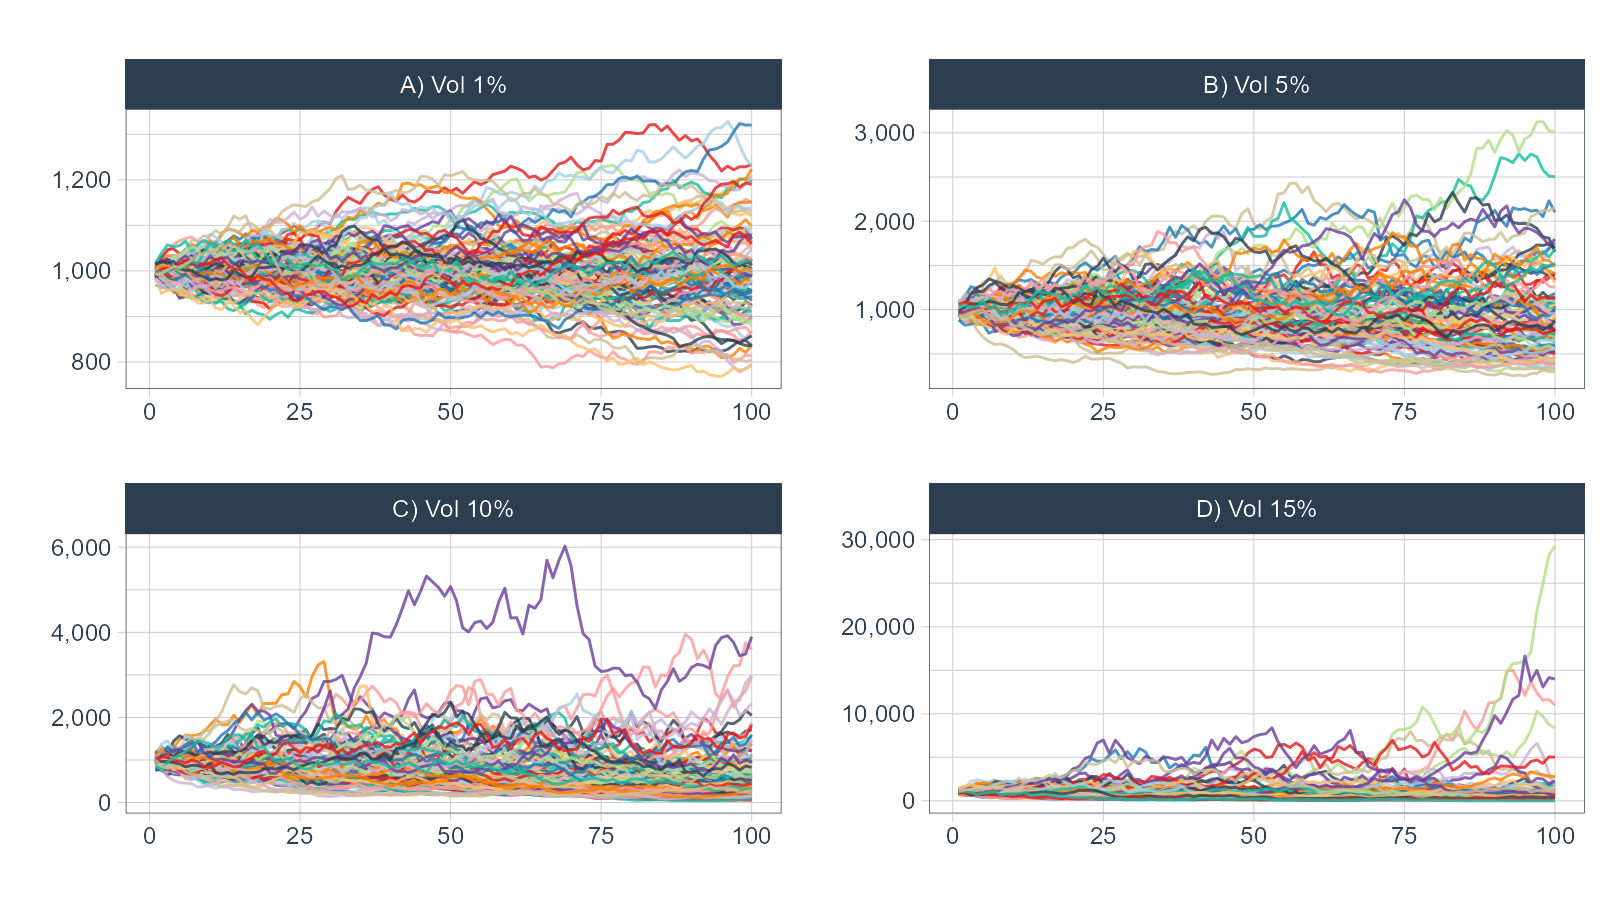
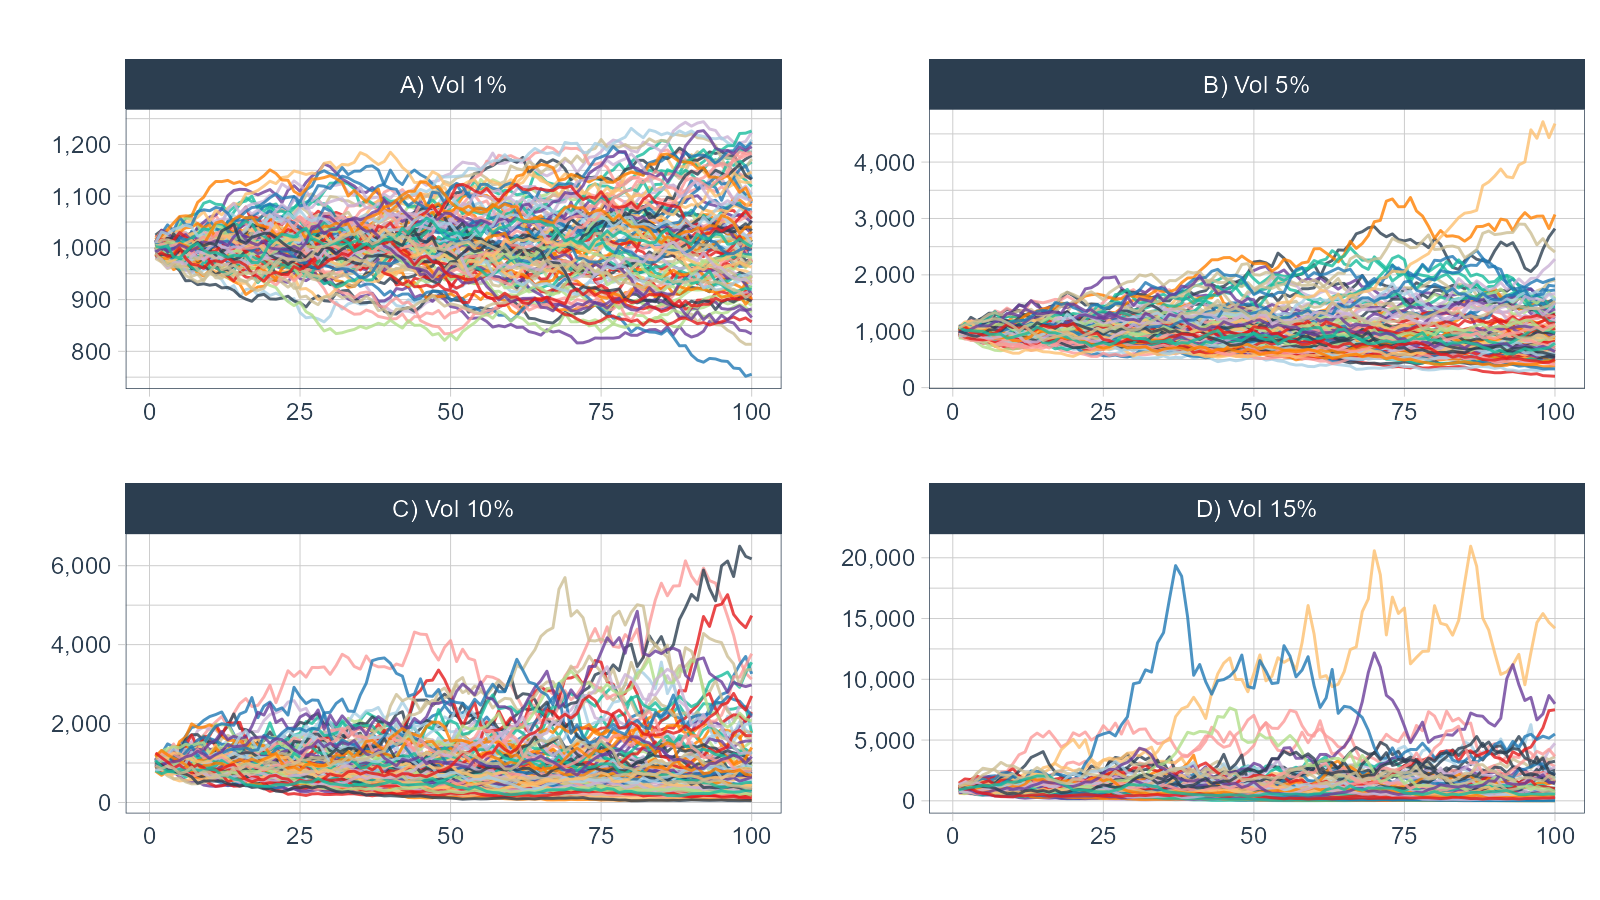
update NEWS and rebuild site

diff --git a/docs/articles/getting-started.html b/docs/articles/getting-started.html
@@ -37,7 +37,7 @@
       </button>
       <span class="navbar-brand">
         <a class="navbar-link" href="../index.html">healthyR.ts</a>
-        <span class="version label label-default" data-toggle="tooltip" data-placement="bottom" title="Released version">0.0.0.9001</span>
+        <span class="version label label-default" data-toggle="tooltip" data-placement="bottom" title="Released version">0.1.0</span>
       </span>
     </div>
 
@@ -114,19 +114,19 @@
 <span class="co">#&gt; # A tibble: 6 x 4</span>
 <span class="co">#&gt;     run     x       y cum_y</span>
 <span class="co">#&gt;   &lt;dbl&gt; &lt;dbl&gt;   &lt;dbl&gt; &lt;dbl&gt;</span>
-<span class="co">#&gt; 1     1     1  0.0442 1044.</span>
-<span class="co">#&gt; 2     1     2 -0.0121 1032.</span>
-<span class="co">#&gt; 3     1     3 -0.0101 1021.</span>
-<span class="co">#&gt; 4     1     4  0.0315 1053.</span>
-<span class="co">#&gt; 5     1     5  0.0554 1112.</span>
-<span class="co">#&gt; 6     1     6  0.134  1260.</span>
+<span class="co">#&gt; 1     1     1  0.156  1156.</span>
+<span class="co">#&gt; 2     1     2  0.0729 1240.</span>
+<span class="co">#&gt; 3     1     3  0.0563 1310.</span>
+<span class="co">#&gt; 4     1     4 -0.0812 1204.</span>
+<span class="co">#&gt; 5     1     5 -0.0208 1179.</span>
+<span class="co">#&gt; 6     1     6 -0.118  1040.</span>
 <span class="fu"><a href="https://tibble.tidyverse.org/reference/glimpse.html">glimpse</a></span><span class="op">(</span><span class="va">df</span><span class="op">)</span>
 <span class="co">#&gt; Rows: 10,000</span>
 <span class="co">#&gt; Columns: 4</span>
 <span class="co">#&gt; $ run   &lt;dbl&gt; 1, 1, 1, 1, 1, 1, 1, 1, 1, 1, 1, 1, 1, 1, 1, 1, 1, 1, 1, 1, 1...</span>
 <span class="co">#&gt; $ x     &lt;dbl&gt; 1, 2, 3, 4, 5, 6, 7, 8, 9, 10, 11, 12, 13, 14, 15, 16, 17, 18...</span>
-<span class="co">#&gt; $ y     &lt;dbl&gt; 0.0441598370, -0.0120941638, -0.0100700147, 0.0314856320, 0.0...</span>
-<span class="co">#&gt; $ cum_y &lt;dbl&gt; 1044.1598, 1031.5316, 1021.1441, 1053.2954, 1111.6271, 1260.0...</span></code></pre></div>
+<span class="co">#&gt; $ y     &lt;dbl&gt; 0.156030623, 0.072947066, 0.056267681, -0.081201169, -0.02083...</span>
+<span class="co">#&gt; $ cum_y &lt;dbl&gt; 1156.0306, 1240.3597, 1310.1518, 1203.7660, 1178.6866, 1039.7...</span></code></pre></div>
 <p>Now that the data has been generated, lets take a look at it.</p>
 <div class="sourceCode" id="cb3"><pre class="downlit sourceCode r">
 <code class="sourceCode R"><span class="va">df</span> <span class="op">%&gt;%</span>

diff --git a/docs/news/index.html b/docs/news/index.html
@@ -81,7 +81,7 @@
       </button>
       <span class="navbar-brand">
         <a class="navbar-link" href="../index.html">healthyR.ts</a>
-        <span class="version label label-default" data-toggle="tooltip" data-placement="bottom" title="Released version">0.0.0.9001</span>
+        <span class="version label label-default" data-toggle="tooltip" data-placement="bottom" title="Released version">0.1.0</span>
       </span>
     </div>
 
@@ -137,13 +137,19 @@
       <small>Source: <a href='https://github.com/spsanderson/healthyR.ts/blob/master/NEWS.md'><code>NEWS.md</code></a></small>
     </div>
 
-    <div id="healthyrts-development-version" class="section level1">
-<h1 class="page-header" data-toc-text="development version">
-<a href="#healthyrts-development-version" class="anchor"></a>healthyR.ts (development version)</h1>
-</div>
-    <div id="healthyrts-0009001" class="section level1">
-<h1 class="page-header" data-toc-text="0.0.0.9001">
-<a href="#healthyrts-0009001" class="anchor"></a>healthyR.ts 0.0.0.9001</h1>
+    <div id="healthyrts-010" class="section level1">
+<h1 class="page-header" data-toc-text="0.1.0">
+<a href="#healthyrts-010" class="anchor"></a>healthyR.ts 0.1.0</h1>
+<ul>
+<li>Added functions</li>
+</ul>
+<ol>
+<li>ts_qc_run_chart</li>
+<li>ts_compare_data</li>
+</ol>
+<div id="healthyrts-0009001" class="section level2">
+<h2 class="hasAnchor">
+<a href="#healthyrts-0009001" class="anchor"></a>healthyR.ts 0.0.0.9001</h2>
 <ul>
 <li>Added fuctions</li>
 </ul>
@@ -151,6 +157,7 @@
 <li>ts_random_walk</li>
 <li>ts_random_walk_ggplot_layers</li>
 </ol>
+</div>
 <div id="healthyrts-0009000" class="section level2">
 <h2 class="hasAnchor">
 <a href="#healthyrts-0009000" class="anchor"></a>healthyR.ts 0.0.0.9000</h2>

diff --git a/docs/reference/ts_qc_run_chart.html b/docs/reference/ts_qc_run_chart.html
@@ -87,7 +87,7 @@ process behavior over time." />
       </button>
       <span class="navbar-brand">
         <a class="navbar-link" href="../index.html">healthyR.ts</a>
-        <span class="version label label-default" data-toggle="tooltip" data-placement="bottom" title="Released version">0.0.0.9001</span>
+        <span class="version label label-default" data-toggle="tooltip" data-placement="bottom" title="Released version">0.1.0</span>
       </span>
     </div>
 

diff --git a/docs/reference/tidyeval.html b/docs/reference/tidyeval.html
@@ -114,7 +114,7 @@ section of Advanced R." />
       </button>
       <span class="navbar-brand">
         <a class="navbar-link" href="../index.html">healthyR.ts</a>
-        <span class="version label label-default" data-toggle="tooltip" data-placement="bottom" title="Released version">0.0.0.9001</span>
+        <span class="version label label-default" data-toggle="tooltip" data-placement="bottom" title="Released version">0.1.0</span>
       </span>
     </div>
 

diff --git a/docs/reference/ts_compare_data.html b/docs/reference/ts_compare_data.html
@@ -85,7 +85,7 @@ this function." />
       </button>
       <span class="navbar-brand">
         <a class="navbar-link" href="../index.html">healthyR.ts</a>
-        <span class="version label label-default" data-toggle="tooltip" data-placement="bottom" title="Released version">0.0.0.9001</span>
+        <span class="version label label-default" data-toggle="tooltip" data-placement="bottom" title="Released version">0.1.0</span>
       </span>
     </div>
 

diff --git a/docs/articles/index.html b/docs/articles/index.html
@@ -81,7 +81,7 @@
       </button>
       <span class="navbar-brand">
         <a class="navbar-link" href="../index.html">healthyR.ts</a>
-        <span class="version label label-default" data-toggle="tooltip" data-placement="bottom" title="Released version">0.0.0.9001</span>
+        <span class="version label label-default" data-toggle="tooltip" data-placement="bottom" title="Released version">0.1.0</span>
       </span>
     </div>
 

diff --git a/docs/reference/index.html b/docs/reference/index.html
@@ -81,7 +81,7 @@
       </button>
       <span class="navbar-brand">
         <a class="navbar-link" href="../index.html">healthyR.ts</a>
-        <span class="version label label-default" data-toggle="tooltip" data-placement="bottom" title="Released version">0.0.0.9001</span>
+        <span class="version label label-default" data-toggle="tooltip" data-placement="bottom" title="Released version">0.1.0</span>
       </span>
     </div>
 

diff --git a/docs/reference/pipe.html b/docs/reference/pipe.html
@@ -82,7 +82,7 @@
       </button>
       <span class="navbar-brand">
         <a class="navbar-link" href="../index.html">healthyR.ts</a>
-        <span class="version label label-default" data-toggle="tooltip" data-placement="bottom" title="Released version">0.0.0.9001</span>
+        <span class="version label label-default" data-toggle="tooltip" data-placement="bottom" title="Released version">0.1.0</span>
       </span>
     </div>
 

diff --git a/docs/reference/ts_random_walk.html b/docs/reference/ts_random_walk.html
@@ -82,7 +82,7 @@
       </button>
       <span class="navbar-brand">
         <a class="navbar-link" href="../index.html">healthyR.ts</a>
-        <span class="version label label-default" data-toggle="tooltip" data-placement="bottom" title="Released version">0.0.0.9001</span>
+        <span class="version label label-default" data-toggle="tooltip" data-placement="bottom" title="Released version">0.1.0</span>
       </span>
     </div>
 

diff --git a/docs/reference/ts_random_walk_ggplot_layers.html b/docs/reference/ts_random_walk_ggplot_layers.html
@@ -82,7 +82,7 @@
       </button>
       <span class="navbar-brand">
         <a class="navbar-link" href="../index.html">healthyR.ts</a>
-        <span class="version label label-default" data-toggle="tooltip" data-placement="bottom" title="Released version">0.0.0.9001</span>
+        <span class="version label label-default" data-toggle="tooltip" data-placement="bottom" title="Released version">0.1.0</span>
       </span>
     </div>
 

diff --git a/docs/404.html b/docs/404.html
@@ -81,7 +81,7 @@
       </button>
       <span class="navbar-brand">
         <a class="navbar-link" href="index.html">healthyR.ts</a>
-        <span class="version label label-default" data-toggle="tooltip" data-placement="bottom" title="Released version">0.0.0.9001</span>
+        <span class="version label label-default" data-toggle="tooltip" data-placement="bottom" title="Released version">0.1.0</span>
       </span>
     </div>
 

diff --git a/docs/LICENSE-text.html b/docs/LICENSE-text.html
@@ -81,7 +81,7 @@
       </button>
       <span class="navbar-brand">
         <a class="navbar-link" href="index.html">healthyR.ts</a>
-        <span class="version label label-default" data-toggle="tooltip" data-placement="bottom" title="Released version">0.0.0.9001</span>
+        <span class="version label label-default" data-toggle="tooltip" data-placement="bottom" title="Released version">0.1.0</span>
       </span>
     </div>
 
